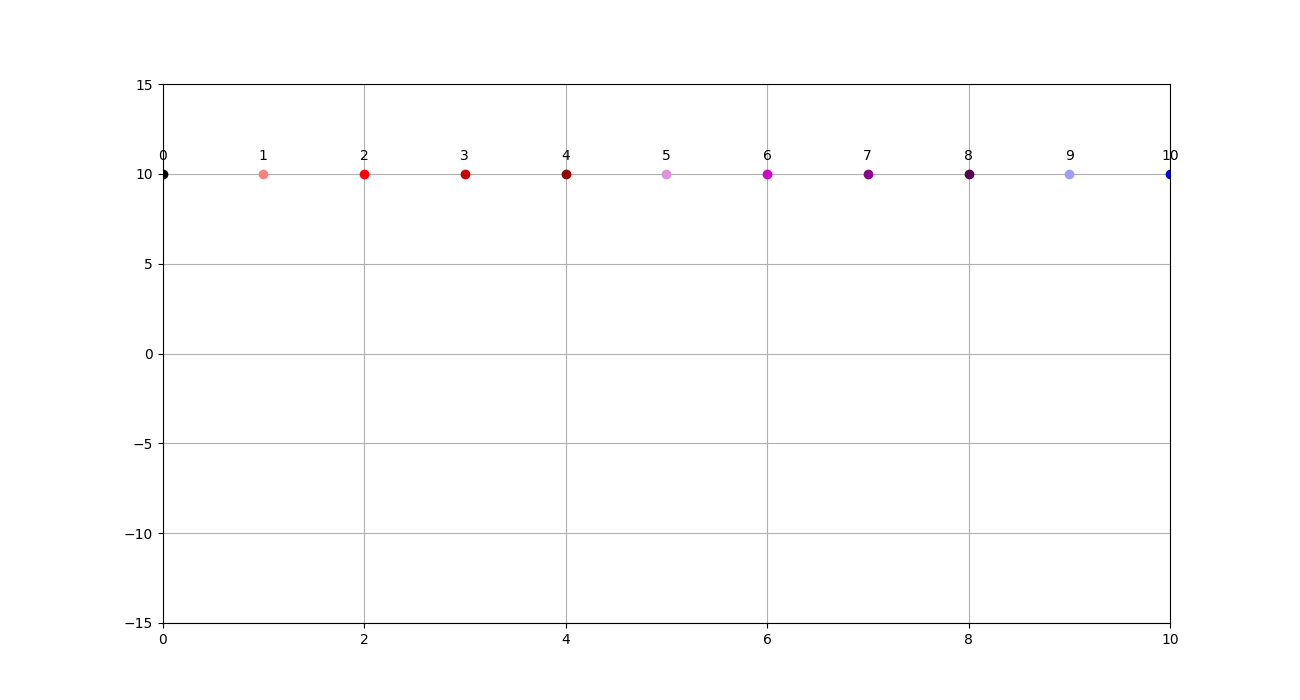
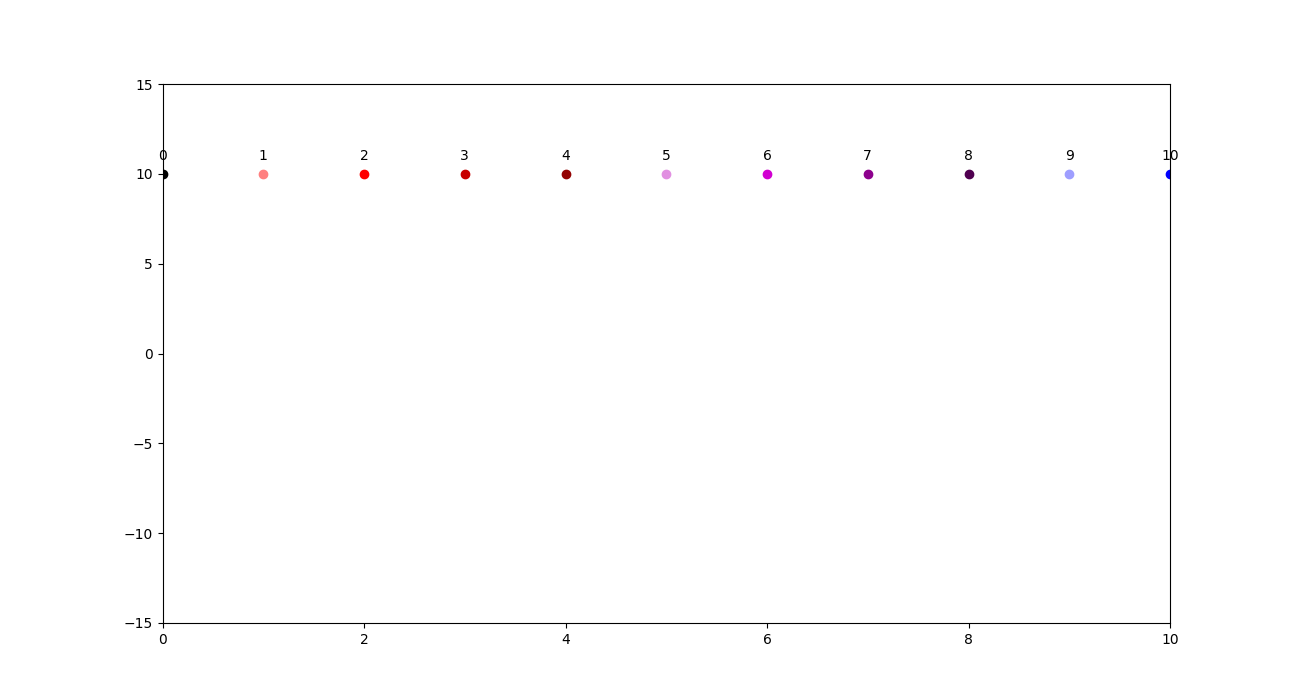
add_1_to_3_points_try_2

diff --git a/python/designSpaceExploration/plots.py b/python/designSpaceExploration/plots.py
@@ -231,13 +231,13 @@ plt.figure(1, figsize=(13,7), tight_layout=True)
 
 #### bands = bands ####
 for i in range(0, len(algorithms)):
-	plt.plot(algorithms[i]*freq, 10, "o", color = color_cost_2[i])
-	#plt.plot(i, 10, "o", color = color_cost_2[i])
-	plt.annotate(i, (algorithms[i]*freq, 10), textcoords="offset points", xytext=(0,10), color="black", ha='center')
-	#plt.annotate(i, (i, 10), textcoords="offset points", xytext=(0,10), color="black", ha='center')
+	#plt.plot(algorithms[i]*freq, 10, "o", color = color_cost_2[i])
+	plt.plot(i, 10, "o", color = color_cost_2[i])
+	#plt.annotate(i, (algorithms[i]*freq, 10), textcoords="offset points", xytext=(0,10), color="black", ha='center')
+	plt.annotate(i, (i, 10), textcoords="offset points", xytext=(0,10), color="black", ha='center')
 	i_and_name = str(i) + ": " + algorithms_names[i]
 	plt.text(2e7, 14-i, i_and_name, color = color_cost_2[i])
-
+"""
 #### bands = bands_1 ####
 for i in range(0, len(algorithms_1)):
 	if(algorithms_1[i] == spectral_binning_1 or algorithms_1[i] == spatial_binning_1):
@@ -256,12 +256,12 @@ for i in range(0, len(algorithms_2)):
 	i_and_name = str(i) + ": " + algorithms_names[i]
 
 	#plt.text(2e7, 14-i, i_and_name, color = color_cost_2[i])
-
+"""
 
 #plt.grid()
-#plt.xlim(0, 10)
+plt.xlim(0, 10)
 plt.ylim(-15,15)
-plt.xscale("log")
-plt.show()
-#plt.savefig("plot.png")
+#plt.xscale("log")
+#plt.show()
+plt.savefig("plot_1_to_3.png")
 
